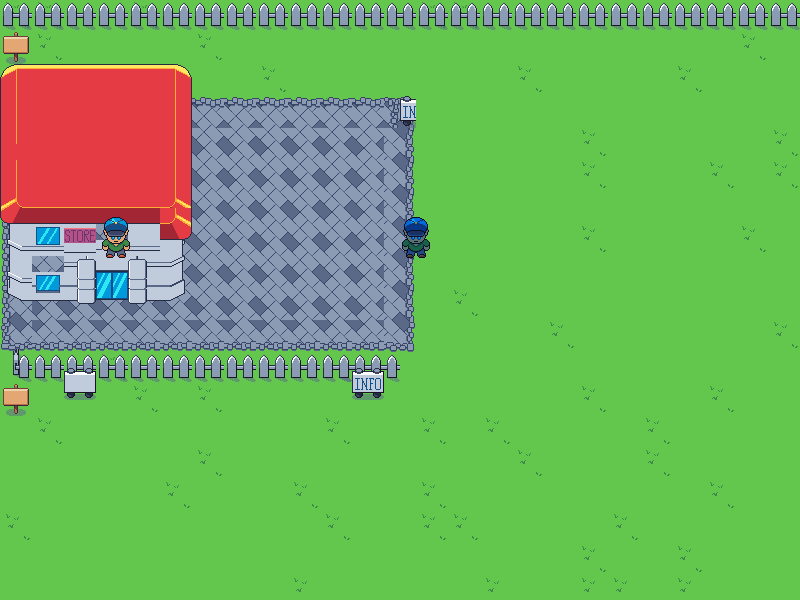
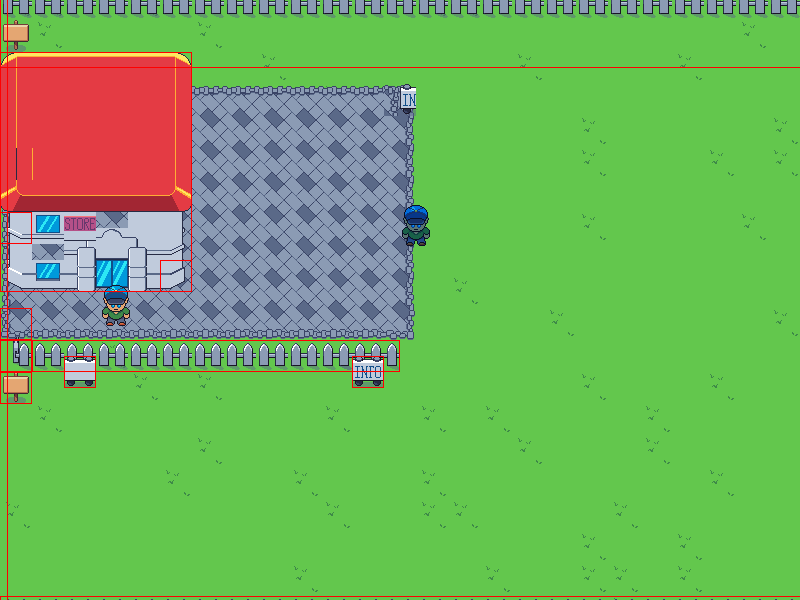
Fix the HIGH and MEDIUM findings from the JRPG review
Collision. The only building in the level had two 32x32 rects on its outer edge
against a 192x240 footprint, so the player walked through the storefront and
stood on the roof; the spawn point was itself inside the wall band at y 192..272.
The shop is now one solid rect and the player spawns on the plaza in front of
it. The picket fence south of the plaza had collision on 1 of its 13 sections
and is now a single span.

Three of the four perimeter walls were inert. The feet box is 24x16 at
pos+(4,48) and pos is clamped to x [0,1216], y [0,576], so it only ever occupies
x 4..1244, y 48..640 -- the top wall at y 0..32 and the side walls outside that
x band could never be touched, nor could three props sitting on row y=0. The
walls are widened into the reachable band and the dead props dropped.

Failure reporting. Initialize() returned void on all three failure paths and
main returned 0 unconditionally, so SDL init, window and renderer failures all
looked like clean runs. A missing tileset was quieter still: AddTexture logs and
adds nothing, GetTexture then returns nullptr and the renderer skips the draw,
giving an empty green window and exit 0. Initialize() and Run() now return bool,
the three messages carry SDL_GetError(), required assets are fatal and name the
path that failed, and main exits non-zero. SDL_CreateRenderer also falls back to
software when accelerated+vsync is unavailable, as netplay-checkers already did.
[…]

Changed region(s): [[0.0, 0.0, 1.0, 0.72], [0.0, 0.99, 1.0, 1.0], [0.8438, 0.09, 0.875, 0.12]]

diff --git a/examples/jrpg/src/states/playState.cpp b/examples/jrpg/src/states/playState.cpp
@@ -19,9 +19,15 @@ PlayState::PlayState(SDL_Renderer *renderer, int windowWidth, int windowHeight,
       isDebugging_{isDebugging}, assetStore_{std::move(assetStore)},
       isRunning_{isRunning}
 {
-    TTF_Init();
+    if (TTF_Init() != 0) {
+        logger_.Err("PlayState: TTF_Init failed — " + std::string(TTF_GetError()));
+        assetsLoaded_ = false;
+    }
     font_ = TTF_OpenFont("./assets/fonts/font.ttf", 18);
-    if (!font_) logger_.Err("PlayState: failed to load font — " + std::string(TTF_GetError()));
+    if (!font_) {
+        logger_.Err("PlayState: failed to load font — " + std::string(TTF_GetError()));
+        assetsLoaded_ = false;
+    }
 
     registry_.AddSystem<RenderSystem>();
     registry_.AddSystem<RenderColliderSystem>();
@@ -51,6 +57,9 @@ bool PlayState::onEnter() {
 
 bool PlayState::onExit() {
     if (font_) { TTF_CloseFont(font_); font_ = nullptr; }
+    // Matches the TTF_Init in the constructor. Without it SDL_ttf is still up
+    // when SDL_Quit runs, which leaves the font cache and FreeType allocated.
+    TTF_Quit();
     assetStore_->ClearAssets();
     m_exiting = true;
     return true;
@@ -61,12 +70,23 @@ bool PlayState::onExit() {
 // ─────────────────────────────────────────────────────────────────────────────
 
 void PlayState::LoadAssets() {
-    assetStore_->AddTexture(renderer_, "Buildings-Tileset",
-                            "./assets/gfx/Buildings-Tileset.png");
-    assetStore_->AddTexture(renderer_, "Outside-Tileset",
-                            "./assets/gfx/Outside-Tileset.png");
-    assetStore_->AddTexture(renderer_, "NPC-Sprite-Sheet",
-                            "./assets/gfx/NPC-Sprite-Sheet.png");
+    // Every miss here used to be silent: AddTexture logs and adds nothing,
+    // GetTexture then returns nullptr, and RenderWorld skips the draw. The
+    // result was an empty green window that exited 0. All three sheets are
+    // required, so a miss is recorded and Game refuses to start.
+    struct Asset { const char *id; const char *path; };
+    static const Asset kAssets[] = {
+        {"Buildings-Tileset", "./assets/gfx/Buildings-Tileset.png"},
+        {"Outside-Tileset",   "./assets/gfx/Outside-Tileset.png"},
+        {"NPC-Sprite-Sheet",  "./assets/gfx/NPC-Sprite-Sheet.png"},
+    };
+    for (const auto &a : kAssets) {
+        assetStore_->AddTexture(renderer_, a.id, a.path);
+        if (!assetStore_->GetTexture(a.id)) {
+            logger_.Err(std::string("PlayState: missing ") + a.path);
+            assetsLoaded_ = false;
+        }
+    }
 }
 
 // ─────────────────────────────────────────────────────────────────────────────
@@ -134,11 +154,16 @@ void PlayState::LoadColliders() {
 void PlayState::SpawnPlayer() {
     Entity player = registry_.CreateEntity();
     player.Tag("player");
+    // On the plaza in front of the shop, not inside it. The old (100,200) put
+    // the 32x64 sprite at y 200..264, squarely inside the wall band the shop
+    // occupies at y 192..272 -- the player spawned embedded in the storefront.
+    // Feet box here is x 104..128, y 328..344: clear of the shop (solid to
+    // y=304) and of the fence run that starts at y=352.
     player.AddComponent<TransformComponent>(
-        glm::vec2(100.0f, 200.0f), glm::vec2(1.0f, 1.0f), 0.0);
+        glm::vec2(100.0f, 280.0f), glm::vec2(1.0f, 1.0f), 0.0);
     // Start facing down (idle-down = frame 1, srcX = 32)
     player.AddComponent<SpriteComponent>(
-        "NPC-Sprite-Sheet", PLAYER_FRAME_W, PLAYER_FRAME_H, 5,
+        "NPC-Sprite-Sheet", PLAYER_FRAME_W, PLAYER_FRAME_H, CHARACTER_Z,
         false, 1 * PLAYER_FRAME_W, 0);
     player.AddComponent<PlayerComponent>();
 }
@@ -160,7 +185,7 @@ void PlayState::SpawnNPC(float x, float y, const std::string &name,
     npc.AddComponent<TransformComponent>(
         glm::vec2(x, y), glm::vec2(1.0f, 1.0f), 0.0);
     npc.AddComponent<SpriteComponent>(
-        "NPC-Sprite-Sheet", PLAYER_FRAME_W, PLAYER_FRAME_H, 4,
+        "NPC-Sprite-Sheet", PLAYER_FRAME_W, PLAYER_FRAME_H, CHARACTER_Z,
         false, idleFrame * PLAYER_FRAME_W, 0);
     npc.AddComponent<NpcComponent>(NpcComponent{name, dialogue, facing});
     // NPC tinting happens per-draw in RenderWorld (the sheet is shared with
@@ -175,7 +200,10 @@ void PlayState::processInput() {
     SDL_Event event;
     while (SDL_PollEvent(&event)) {
         if (event.type == SDL_QUIT) { isRunning_ = false; return; }
-        if (event.type == SDL_KEYDOWN) {
+        // Ignore auto-repeat. These are all edge actions -- toggling the debug
+        // overlay, advancing dialogue -- and the repeat stream made them strobe
+        // for as long as the key was held.
+        if (event.type == SDL_KEYDOWN && !event.key.repeat) {
             switch (event.key.keysym.sym) {
             case SDLK_ESCAPE: isRunning_ = false; return;
             case SDLK_F1:    isDebugging_ = !isDebugging_; break;
@@ -420,9 +448,20 @@ void PlayState::render() {
 void PlayState::RenderWorld() {
     // Collect all entities with Sprite + Transform, sort by zIndex, render with camera offset
     auto entities = registry_.GetSystem<RenderSystem>().GetSystemEntities();
+    // zIndex first, then the feet line. zIndex alone is a spawn-time constant
+    // -- player 5, NPC 4, tiles <= 3 -- so the player drew in front of every
+    // NPC unconditionally, however far up the screen the other one stood. In a
+    // top-down world the character lower on the screen is nearer the camera, so
+    // position.y + height breaks the tie inside a layer.
     std::sort(entities.begin(), entities.end(), [](const Entity &a, const Entity &b) {
-        return a.GetComponent<SpriteComponent>().zIndex <
-               b.GetComponent<SpriteComponent>().zIndex;
+        const auto &sa = a.GetComponent<SpriteComponent>();
+        const auto &sb = b.GetComponent<SpriteComponent>();
+        if (sa.zIndex != sb.zIndex) {
+            return sa.zIndex < sb.zIndex;
+        }
+        const float fa = a.GetComponent<TransformComponent>().position.y + sa.height;
+        const float fb = b.GetComponent<TransformComponent>().position.y + sb.height;
+        return fa < fb;
     });
 
     for (auto &e : entities) {
@@ -500,6 +539,12 @@ void PlayState::RenderDialogueBox() {
                  windowWidth_ - 190, boxY + boxH - 24,
                  {200, 200, 200, 255});
     }
+
+    // Put the blend mode back. It is renderer-wide state, not scoped to this
+    // function, so leaving it on BLEND meant every later draw -- notably the
+    // F1 collider overlay, which sets its own alpha -- rendered differently
+    // after the first line of dialogue than before it.
+    SDL_SetRenderDrawBlendMode(renderer_, SDL_BLENDMODE_NONE);
 }
 
 // Renders at the font's fixed point size (18) — the font is opened once in the

diff --git a/examples/jrpg/src/game.cpp b/examples/jrpg/src/game.cpp
@@ -8,16 +8,22 @@ Game::Game() {
 
 Game::~Game() { logger->Log("Game destructor called"); }
 
-void Game::Initialize() {
+bool Game::Initialize() {
     if (SDL_Init(SDL_INIT_EVERYTHING) != 0) {
-        logger->Err("Error initializing SDL.");
-        return;
+        // SDL_GetError() on every failure path: AssetStore and TileMapLoader
+        // both report it, and "Error initializing SDL." on its own tells the
+        // user nothing they can act on.
+        logger->Err(std::string("Error initializing SDL: ") + SDL_GetError());
+        return false;
     }
 
     window = SDL_CreateWindow("Storm JRPG",
                               SDL_WINDOWPOS_CENTERED, SDL_WINDOWPOS_CENTERED,
                               windowWidth, windowHeight, 0);
-    if (!window) { logger->Err("Error creating SDL window."); return; }
+    if (!window) {
+        logger->Err(std::string("Error creating SDL window: ") + SDL_GetError());
+        return false;
+    }
 
     // Window icon: the player's idle-down frame, head and torso, cut from the
     // sprite sheet. SDL_SetWindowIcon copies the surface, so it is freed
@@ -31,23 +37,45 @@ void Game::Initialize() {
         logger->Err("Missing ./assets/gfx/icon.png -- run from the game root.");
     }
 
-    renderer = SDL_CreateRenderer(window, -1, SDL_RENDERER_ACCELERATED | SDL_RENDERER_PRESENTVSYNC);
-    if (!renderer) { logger->Err("Error creating SDL renderer."); return; }
+    renderer = SDL_CreateRenderer(
+        window, -1, SDL_RENDERER_ACCELERATED | SDL_RENDERER_PRESENTVSYNC);
+    if (!renderer) {
+        // Fall back to whatever SDL can give us, as netplay-checkers does.
+        // Accelerated+vsync is unavailable on plenty of remote sessions and
+        // headless-ish setups, and a 2D game like this runs fine on software.
+        logger->Err(std::string("Accelerated renderer unavailable (")
+                    + SDL_GetError() + "); falling back to software.");
+        renderer = SDL_CreateRenderer(window, -1, 0);
+    }
+    if (!renderer) {
+        logger->Err(std::string("Error creating SDL renderer: ") + SDL_GetError());
+        return false;
+    }
 
-    gameStateMachine.changeState(
-        new PlayState(renderer, windowWidth, windowHeight, isDebugging,
-                      std::move(assetStore), isRunning));
+    auto *play = new PlayState(renderer, windowWidth, windowHeight, isDebugging,
+                               std::move(assetStore), isRunning);
+    // PlayState reports which asset it could not load. Without this the game
+    // opened on an empty green field and exited 0, which reads as success.
+    if (!play->AssetsLoaded()) {
+        delete play;
+        return false;
+    }
+    gameStateMachine.changeState(play);
 
     isRunning = true;
+    return true;
 }
 
-void Game::Run() {
-    Initialize();
+bool Game::Run() {
+    if (!Initialize()) {
+        return false;
+    }
     while (isRunning) {
         ProcessInput();
         Update();
         Render();
     }
+    return true;
 }
 
 void Game::ProcessInput() { gameStateMachine.processInput(); }

diff --git a/examples/jrpg/src/states/playState.h b/examples/jrpg/src/states/playState.h
@@ -28,6 +28,11 @@
 constexpr int PLAYER_FRAME_W = 32;
 constexpr int PLAYER_FRAME_H = 64;
 
+// Player and NPCs share a layer so the render sort's feet-line tie-break
+// decides which of them is in front, rather than a fixed spawn-time constant.
+// Tiles in the map are all zIndex <= 3.
+constexpr int CHARACTER_Z    = 4;
+
 // ─── Tile constants ────────────────────────────────────────────────────────────
 // The editor uses a 16px grid; passing tileSize=8 to TileMapLoader preserves
 // the exact pixel coordinates from the map file (GCD of common worldX values).
@@ -64,6 +69,11 @@ public:
     void processInput() override;
     void update()       override;
     void render()       override;
+    // False when a required texture, the font, or SDL_ttf failed to load.
+    // Game checks this and refuses to start rather than opening an empty
+    // window and exiting 0.
+    bool AssetsLoaded() const { return assetsLoaded_; }
+
     bool onEnter()      override;
     bool onExit()       override;
     std::string getStateID() const override { return s_playID; }
@@ -97,6 +107,7 @@ private:
     bool           isDebugging_;
     AssetStore_Ptr assetStore_;
     Logger         logger_;
+    bool           assetsLoaded_ = true;
     bool          &isRunning_;
 
     Registry       registry_;

diff --git a/examples/jrpg/assets/tilemaps/retile.py b/examples/jrpg/assets/tilemaps/retile.py
@@ -65,7 +65,11 @@ STONE = {
 
 # Every source cell inside that patch. Anything drawn from here is stone and
 # gets re-laid; everything else on layers 1+ is left where the artist put it.
-STONE_SRCS = {(x, y) for x in (0, 16, 32, 48, 64)
+# x goes to 80: the patch spans src x 0..96, and a stamp taken from its right
+# edge at x=80 was falling outside this set, surviving as a 32x32 crop that
+# straddles the patch border and the left third of the white INFO sign next to
+# it -- a nonsense sprite that no regeneration could clear.
+STONE_SRCS = {(x, y) for x in (0, 16, 32, 48, 64, 80)
               for y in (32, 48, 64, 80, 96, 112)}
 
 # (srcX, srcY, axis, value) -- stamps of this tile on this line are the run.

diff --git a/examples/jrpg/src/main.cpp b/examples/jrpg/src/main.cpp
@@ -2,7 +2,12 @@
 
 int main(int argc, char *argv[]) {
     Game game;
-    game.Run();
+    const bool ok = game.Run();
     game.Destroy();
-    return 0;
+    // Non-zero when the game never started. Returning 0 unconditionally made
+    // every failure -- SDL init, window, renderer, a missing tileset or map --
+    // look like a clean run to `make run`, to CI, and to any shell chaining on
+    // it. Assets are all loaded relative to the working directory, so the usual
+    // cause is being launched from somewhere other than the example root.
+    return ok ? 0 : 1;
 }

diff --git a/examples/jrpg/src/game.h b/examples/jrpg/src/game.h
@@ -14,11 +14,11 @@ public:
     Game();
     ~Game();
 
-    void Initialize();
+    bool Initialize();
     void ProcessInput();
     void Update();
     void Render();
-    void Run();
+    bool Run();
     void Destroy();
 
 private:
